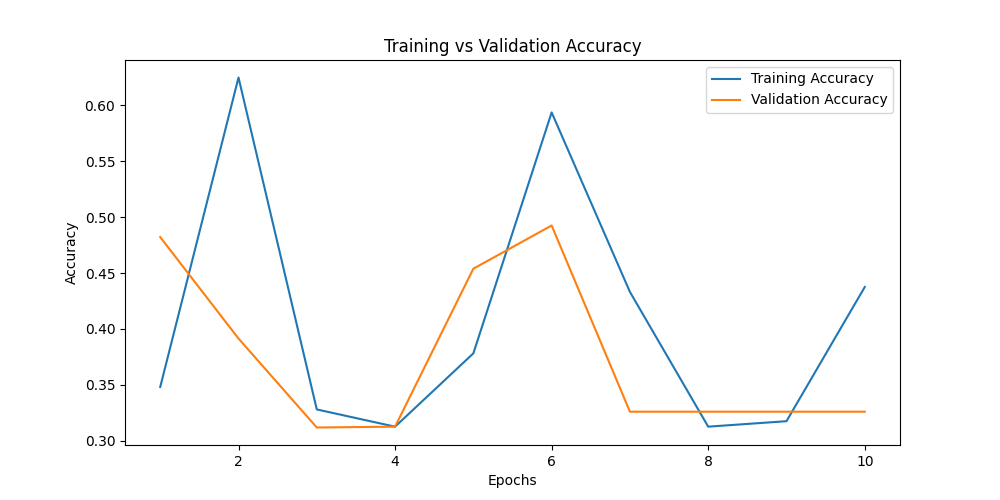
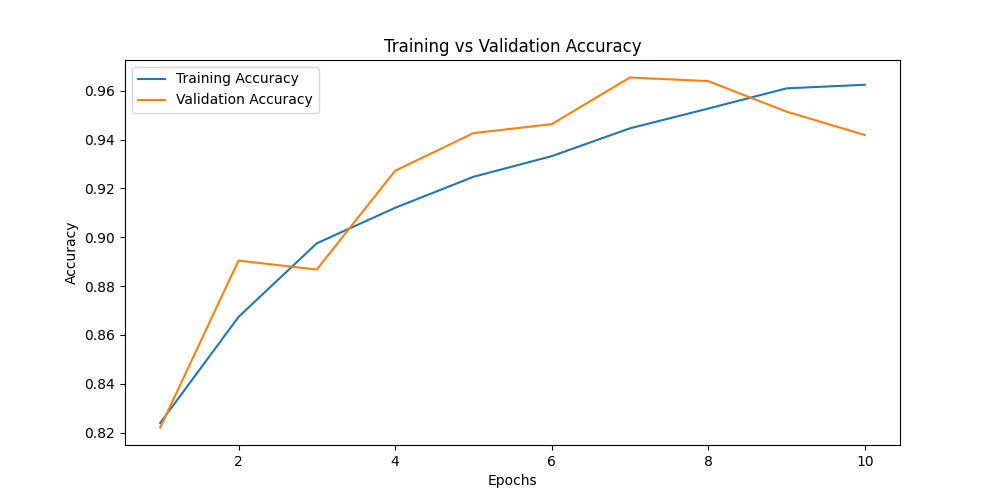
update model parameters and improve training configuration

diff --git a/templates/history.html b/templates/history.html
@@ -44,11 +44,13 @@
         <h3>Training History:</h3>
         <div class="graph-container">
             <h5>Accuracy vs Validation Accuracy:</h5>
-            <img src="{{ url_for('static', filename='graphs/accuracy_vs_val_accuracy.png') }}" alt="Accuracy vs Validation Accuracy">
+<img src="{{ url_for('static', filename='accuracy_vs_val_accuracy.png') }}" alt="Accuracy vs Validation Accuracy">
+
         </div>
         <div class="graph-container">
             <h5>Loss vs Validation Loss:</h5>
-            <img src="{{ url_for('static', filename='graphs/loss_vs_val_loss.png') }}" alt="Loss vs Validation Loss">
+<img src="{{ url_for('static', filename='loss_vs_val_loss.png') }}" alt="Loss vs Validation Loss">
+
         </div>
     </section>
     
@@ -65,7 +67,8 @@
             </ul>
         </p>
         <div class="image-container">
-            <img src="{{ url_for('static', filename='images/hld.png') }}" alt="High-Level Design">
+<img src="{{ url_for('static', filename='hld.png') }}" alt="High-Level Design">
+
         </div>
     </section>
     
@@ -96,7 +99,8 @@
             In this project, we leverage the pre-trained VGG16 model as a feature extractor. The lower layers of the model are frozen, retaining their ability to extract important features, while the upper layers are replaced with a new classification head tailored for poultry disease detection.
         </p>
         <div class="image-container">
-            <img src="{{ url_for('static', filename='images/vgg16.png') }}" alt="VGG16 Model Architecture">
+<img src="{{ url_for('static', filename='vgg16_architecture.png') }}" alt="VGG16 Model Architecture">
+
         </div>
     </section>
 
@@ -120,7 +124,8 @@
             In this project, the VGG16 model is used as a feature extractor. The initial convolutional layers are frozen, meaning their weights are not updated during training. A new classifier is added on top of VGG16, trained specifically for poultry disease classification. Only the newly added layers are updated during training.
         </p>
         <div class="image-container">
-            <img src="{{ url_for('static', filename='images/model_architecture.png') }}" alt="Custom Model Architecture">
+<img src="{{ url_for('static', filename='model_architecture.jpeg') }}" alt="Custom Model Architecture">
+
         </div>
     </section>
 

diff --git a/src/cnnClassifier/components/training.py b/src/cnnClassifier/components/training.py
@@ -1,25 +1,32 @@
 import tensorflow as tf
 import matplotlib.pyplot as plt
 import json
+import numpy as np
 from pathlib import Path
+from tensorflow.keras.callbacks import EarlyStopping, ModelCheckpoint, ReduceLROnPlateau
+from sklearn.utils.class_weight import compute_class_weight
 
 class Training:
     def __init__(self, config):
         self.config = config
         self.model = self.get_base_model()
         self.compile_model()
+        self.train_generator = None
+        self.valid_generator = None
 
     def get_base_model(self):
         base_model = tf.keras.applications.VGG16(weights='imagenet', include_top=False, input_shape=self.config.params_image_size)
+
         x = tf.keras.layers.GlobalAveragePooling2D()(base_model.output)
         x = tf.keras.layers.Dense(512, activation='relu')(x)
         predictions = tf.keras.layers.Dense(4, activation='softmax')(x)
+
         model = tf.keras.models.Model(inputs=base_model.input, outputs=predictions)
         return model
 
     def compile_model(self):
         self.model.compile(
-            optimizer=tf.keras.optimizers.Adam(),
+            optimizer=tf.keras.optimizers.Adam(learning_rate=self.config.params_learning_rate),
             loss='categorical_crossentropy',
             metrics=['accuracy']
         )
@@ -29,36 +36,80 @@ class Training:
         dataflow_kwargs = dict(target_size=self.config.params_image_size[:-1], batch_size=self.config.params_batch_size, interpolation="bilinear")
 
         valid_datagenerator = tf.keras.preprocessing.image.ImageDataGenerator(**datagenerator_kwargs)
-        self.valid_generator = valid_datagenerator.flow_from_directory(directory=self.config.training_data, subset="validation", shuffle=False, **dataflow_kwargs)
+        self.valid_generator = valid_datagenerator.flow_from_directory(
+            directory=self.config.training_data,
+            subset="validation",
+            shuffle=False,
+            class_mode="categorical",
+            **dataflow_kwargs
+        )
 
         if self.config.params_is_augmentation:
             train_datagenerator = tf.keras.preprocessing.image.ImageDataGenerator(
-                rotation_range=40, horizontal_flip=True, width_shift_range=0.2, height_shift_range=0.2, shear_range=0.2, zoom_range=0.2, **datagenerator_kwargs
+                rotation_range=40, horizontal_flip=True, width_shift_range=0.2,
+                height_shift_range=0.2, shear_range=0.2, zoom_range=0.2,
+                **datagenerator_kwargs
             )
         else:
             train_datagenerator = valid_datagenerator
 
-        self.train_generator = train_datagenerator.flow_from_directory(directory=self.config.training_data, subset="training", shuffle=True, class_mode="categorical", **dataflow_kwargs)
+        self.train_generator = train_datagenerator.flow_from_directory(
+            directory=self.config.training_data,
+            subset="training",
+            shuffle=True,
+            class_mode="categorical",
+            **dataflow_kwargs
+        )
 
     @staticmethod
     def save_model(path: Path, model: tf.keras.Model):
         model.save(path)
 
-    def train(self, callback_list: list):
-        self.steps_per_epoch = self.train_generator.samples // self.train_generator.batch_size
-        self.validation_steps = self.valid_generator.samples // self.valid_generator.batch_size
+    def train(self, callback_list):
+
+        if not self.train_generator or not self.valid_generator:
+            print("Error: Generators are not initialized. Run train_valid_generator() first.")
+            return
+
+        # Compute class weights
+        class_weights = compute_class_weight(
+            class_weight="balanced",
+            classes=np.unique(self.train_generator.classes),
+            y=self.train_generator.classes
+        )
+        class_weight_dict = dict(enumerate(class_weights))
+
+        # Callbacks
+        early_stopping = EarlyStopping(monitor="val_loss", patience=5, restore_best_weights=True)
+        checkpoint = ModelCheckpoint(self.config.trained_model_path, monitor="val_loss", save_best_only=True, verbose=1)
+        lr_scheduler = ReduceLROnPlateau(
+            monitor="val_loss",
+            factor=self.config.lr_scheduler_factor,  # Updated line
+            patience=self.config.lr_scheduler_patience,  # Updated line
+            min_lr=self.config.lr_scheduler_min_lr,  # Updated line
+            verbose=1
+        )
+
+        callback_list = [early_stopping, checkpoint, lr_scheduler]
+
+        # Ensure steps_per_epoch and validation_steps are set correctly
+        steps_per_epoch = max(1, self.train_generator.samples // self.train_generator.batch_size)
+        validation_steps = max(1, self.valid_generator.samples // self.valid_generator.batch_size)
 
         history = self.model.fit(
             self.train_generator,
             epochs=self.config.params_epochs,
-            steps_per_epoch=self.steps_per_epoch,
-            validation_steps=self.validation_steps,
+            steps_per_epoch=steps_per_epoch,
+            validation_steps=validation_steps,
             validation_data=self.valid_generator,
-            callbacks=callback_list
+            callbacks=callback_list,
+
         )
 
+        # Save trained model
         self.save_model(path=self.config.trained_model_path, model=self.model)
 
+        # Save training history
         history_data = {
             'epochs': list(range(1, len(history.history['accuracy']) + 1)),
             'accuracy': history.history['accuracy'],
@@ -67,14 +118,15 @@ class Training:
             'val_loss': history.history['val_loss']
         }
 
-        # Save history data as JSON
+        # Save history as JSON
         history_path = Path("static/history.json")
         history_path.parent.mkdir(parents=True, exist_ok=True)
         with open(history_path, "w") as f:
             json.dump(history_data, f, indent=4)
 
-        # Save plots
+        # Save training plots
         self.save_plots(history_data)
+
         return history_data
 
     def save_plots(self, history_data):

diff --git a/src/cnnClassifier/config/configuration.py b/src/cnnClassifier/config/configuration.py
@@ -42,10 +42,10 @@ class ConfigurationManager:
             base_model_path=Path(config.base_model_path),
             updated_base_model_path=Path(config.updated_base_model_path),
             params_image_size=self.params.IMAGE_SIZE,
-            params_learning_rate=self.params.LEARNING_RATE,
-            params_include_top=self.params.INCLUDE_TOP,
             params_weights=self.params.WEIGHTS,
-            params_classes=self.params.CLASSES
+            params_include_top=self.params.INCLUDE_TOP,
+            params_classes=self.params.CLASSES,
+            params_learning_rate=self.params.LEARNING_RATE  # Ensure this line is included
         )
         return prepare_base_model_config
 
@@ -77,7 +77,11 @@ class ConfigurationManager:
             params_epochs=params.EPOCHS,
             params_batch_size=params.BATCH_SIZE,
             params_is_augmentation=params.AUGMENTATION,
-            params_image_size=params.IMAGE_SIZE
+            params_image_size=params.IMAGE_SIZE,
+            params_learning_rate=params.LEARNING_RATE,
+            lr_scheduler_factor=params.LR_SCHEDULER.FACTOR,
+            lr_scheduler_patience=params.LR_SCHEDULER.PATIENCE,
+            lr_scheduler_min_lr=params.LR_SCHEDULER.MIN_LR
         )
         return training_config
 

diff --git a/src/cnnClassifier/entity/config_entity.py b/src/cnnClassifier/entity/config_entity.py
@@ -39,6 +39,13 @@ class TrainingConfig:
     params_batch_size: int
     params_is_augmentation: bool
     params_image_size: list
+    params_learning_rate: float  # Add this line
+    lr_scheduler_factor: float    # Add this line
+    lr_scheduler_patience: int     # Add this line
+    lr_scheduler_min_lr: float     # Add this line
+
+    params_learning_rate: float  # Add this line
+
 
 
 @dataclass(frozen=True)

diff --git a/README.md b/README.md
@@ -63,13 +63,13 @@ Using VGG16's pre-trained weights on ImageNet helps the model learn essential fe
 ```
 +---------------------+
 |      Input Layer    |
-|      (224x224x3)    |
+|      (224x224x3)   |
 +---------------------+
           |
           v
 +---------------------+
 |      VGG16          |
-|  (Base Model)       |
+|  (Base Model)      |
 |                     |
 |  Conv1: 64 Filters  |
 |  Conv2: 64 Filters  |
@@ -87,21 +87,21 @@ Using VGG16's pre-trained weights on ImageNet helps the model learn essential fe
           v
 +---------------------+
 |  Fully Connected    |
-|        (Dense1)     |
+|        (Dense1)    |
 |      4096 Neurons   |
 +---------------------+
           |
           v
 +---------------------+
 |  Fully Connected    |
-|        (Dense2)     |
+|        (Dense2)    |
 |      4096 Neurons   |
 +---------------------+
           |
           v
 +---------------------+
 |     Output Layer    |
-|      (Softmax)      |
+|      (Softmax)     |
 |      4 Classes      |
 +---------------------+
 
@@ -114,17 +114,26 @@ Using VGG16's pre-trained weights on ImageNet helps the model learn essential fe
 
 ### Test Accuracy
 - **Accuracy**: 85.60%
+- **Validation Accuracy**: {{ history_data['val_accuracy'][-1] }}
 - **Loss**: 0.3822
+- **Validation Loss**: {{ history_data['val_loss'][-1] }}
 - **Precision**: [Insert Precision Here]
 - **Recall**: [Insert Recall Here]
 - **F1 Score**: [Insert F1 Score Here]
 
-### High-Level Design (HLD)
+### Graphs
+- **Accuracy vs Validation Accuracy**: 
+  ![Accuracy vs Validation Accuracy](static/graphs/accuracy_vs_val_accuracy.png)
+  
+- **Loss vs Validation Loss**: 
+  ![Loss vs Validation Loss](static/graphs/loss_vs_val_loss.png)
+
+## High-Level Design (HLD)
 
 ### System Architecture Overview
 ```
 +-------------------+
-|   User Interface  |
+|   User Interface   |
 |   (Flask App)     |
 +-------------------+
           |
@@ -145,7 +154,7 @@ Using VGG16's pre-trained weights on ImageNet helps the model learn essential fe
           |
           v
 +-------------------+
-|   Model Evaluation|
+|   Model Evaluation |
 +-------------------+
 ```
 
@@ -240,17 +249,17 @@ Using VGG16's pre-trained weights on ImageNet helps the model learn essential fe
           |
           v
 +-------------------+
-| Model Preparation |
+| Model Preparation  |
 +-------------------+
           |
           v
 +-------------------+
-|   Model Training  |
+|   Model Training   |
 +-------------------+
           |
           v
 +-------------------+
-| Model Evaluation  |
+| Model Evaluation   |
 +-------------------+
 ```
 
